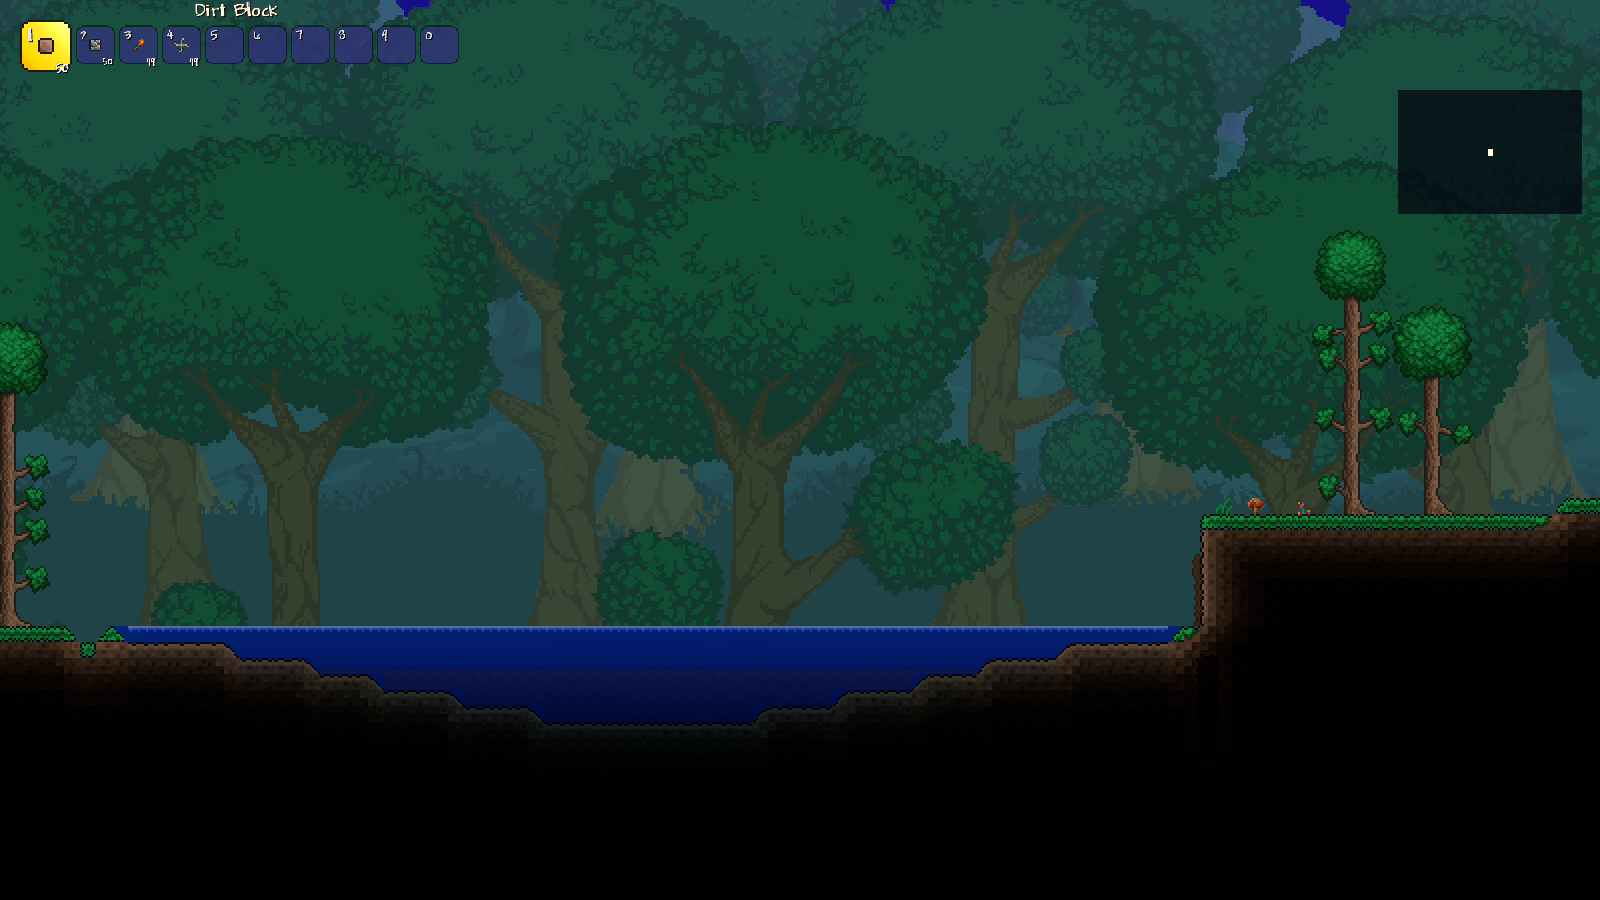
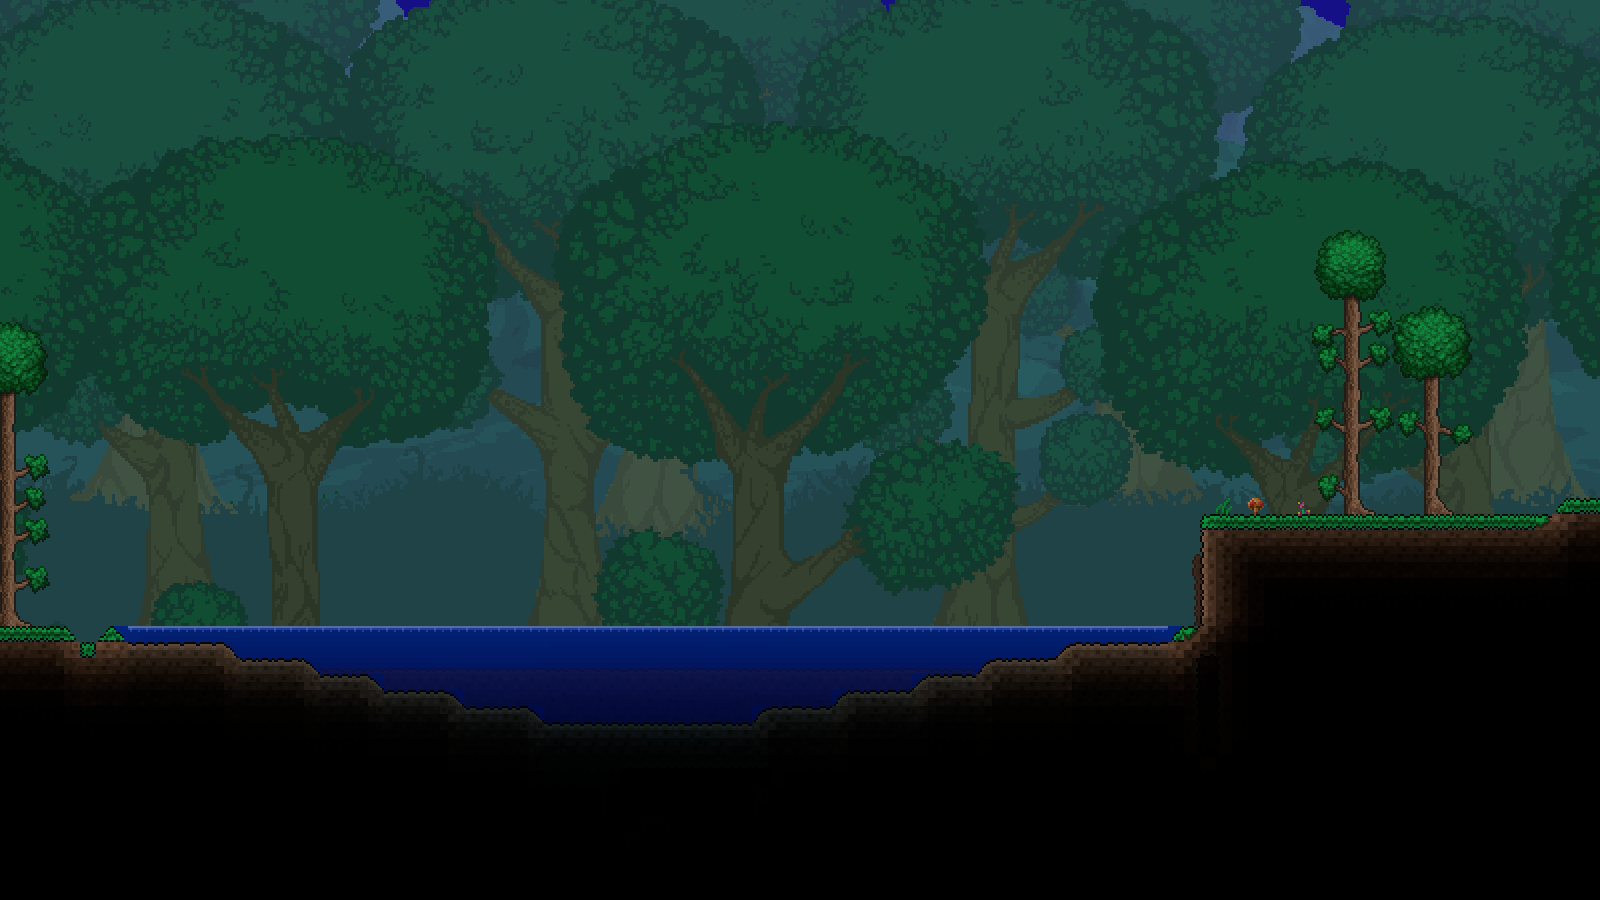
[DOC-README] Trim screenshots to eight world shots and refresh the README
Player-facing README: cut the image set to eight UI-free world shots (surface, player, lake, night, storm, underground, hell, king_slime); rewrite the Speed section as an early basic pass with more to come; expand the not-implemented list (particles, biome effects, potions, stats); state the assets/Content prerequisite without build steps. Adds TR_NOHUD=1 to hide the HUD, hotbar and minimap for world-only captures.

Changed region(s): [[0.0, 0.0, 0.3125, 0.0933], [0.875, 0.0933, 1.0, 0.2489]]

diff --git a/crates/tr-app/src/main.rs b/crates/tr-app/src/main.rs
@@ -1067,6 +1067,13 @@ fn no_cache() -> bool {
     *NO_CACHE.get_or_init(|| std::env::var_os("TR_NOCACHE").is_some())
 }
 
+/// `TR_NOHUD=1` hides the HUD, hotbar and minimap so screenshots show only the
+/// world. The debug overlay (`TR_DEBUG`) is independent and still drawn.
+fn no_hud() -> bool {
+    static NO_HUD: OnceLock<bool> = OnceLock::new();
+    *NO_HUD.get_or_init(|| std::env::var_os("TR_NOHUD").is_some())
+}
+
 /// `TR_PAN=<tiles/frame>` pans the camera deterministically. Benchmarks use it to
 /// measure the moving-camera path, where the static-scene caches (D2/G6) mostly miss.
 fn pan_step() -> Option<f32> {
@@ -2884,7 +2891,7 @@ impl App {
                     .iter()
                     .find(|n| n.kind == NpcKind::KingSlime && n.hp > 0)
                     .map(|n| (n.hp, n.max_hp));
-                if menu.is_none() {
+                if menu.is_none() && !no_hud() {
                     draw_hud(
                         renderer,
                         *camera,
@@ -2904,7 +2911,7 @@ impl App {
                     menu.draw(renderer, lookups, screen, dt);
                 }
                 if let Some(map) = map.as_ref() {
-                    if menu.is_none() && settings.map_enabled {
+                    if !no_hud() && menu.is_none() && settings.map_enabled {
                         map.draw_minimap(renderer, screen);
                         if map.open {
                             map.draw_full(renderer, world, screen);

diff --git a/README.md b/README.md
@@ -15,24 +15,18 @@ ship any of it.
 
 ![surface](docs/screenshots/surface.png)
 
+*A generated forest world — no player, no interface.*
+
 | | |
 | --- | --- |
-| ![generated](docs/screenshots/generated.png) | ![player](docs/screenshots/player.png) |
-| A world from our own generator (seed 1) | The player, walking on the generated surface |
-| ![editing](docs/screenshots/editing.png) | ![slimes](docs/screenshots/slimes.png) |
-| Mining/placing with the hotbar and local re-framing | First enemy pass: hopping slimes and the health bar |
-| ![lake](docs/screenshots/lake.png) | ![snow](docs/screenshots/snow.png) |
-| Generated forest lake: vanilla draw cache, two-pass water | Snow biome: snow tiles, winter trees, pine background |
-| ![ocean](docs/screenshots/ocean.png) | ![night](docs/screenshots/night.png) |
-| Ocean beach at the world edge | Night: moon, stars, parallax mountains |
-| ![light_color](docs/screenshots/light_color.png) | ![light_retro](docs/screenshots/light_retro.png) |
-| Color mode: 9-sliced block light, smooth edges | Retro mode: flat per-tile legacy lighting |
-| ![king_slime](docs/screenshots/king_slime.png) | ![breath](docs/screenshots/breath.png) |
-| King Slime boss: 2000 HP, teleport and slime minions | Player HUD: breath meter when underwater |
-| ![storm](docs/screenshots/storm.png) | ![hell](docs/screenshots/hell.png) |
-| Storm: cloudAlpha ramp, lightning flashes, storm clouds | Underground hell: ash blocks, lava puddles, emerald light |
-| ![underground](docs/screenshots/underground.png) | ![debug_overlay](docs/screenshots/debug_overlay.png) |
-| Underground cave systems with natural lighting | Debug overlay: FPS, instance counts, light metrics |
+| ![player](docs/screenshots/player.png) | ![lake](docs/screenshots/lake.png) |
+| The player, walking on the generated surface | A generated forest lake: vanilla draw cache, two-pass water |
+| ![night](docs/screenshots/night.png) | ![storm](docs/screenshots/storm.png) |
+| Night: moon, stars and parallax mountains, world only | Storm: driving rain, dark storm clouds and lightning flashes |
+| ![underground](docs/screenshots/underground.png) | ![hell](docs/screenshots/hell.png) |
+| Underground caves with natural Color-mode lighting | Underground hell: ash blocks, lava puddles, emerald light |
+| ![king_slime](docs/screenshots/king_slime.png) | |
+| King Slime boss: 2000 HP, teleport and slime minions | |
 
 ## What you can already do
 
@@ -60,8 +54,12 @@ ship any of it.
 
 ## Speed: how much faster it is now
 
-Terrustaria went through a dedicated performance pass ("Milestone 1.5"), and the difference is
-large. Every change was verified to produce the **exact same pixels** as before, so the game
+This is an early, basic optimisation pass — the first real one the project has had. It already
+makes a noticeable difference, but it is only a starting point. As the game edges closer to
+finished, larger parts of the code will be rewritten and the whole thing will speed up
+considerably, building much bigger performance gains on top of the finished mechanics.
+
+Every change so far was checked to produce the **exact same pixels** as before, so the game
 looks identical — it just does far less work.
 
 Measured on our test machine — an **RTX 4070 Laptop GPU with a Ryzen AI 9 365, at 1600×900** —
@@ -100,6 +98,7 @@ them. Set one before launching the program.
 | --- | --- |
 | `TR_BACKEND=dx12\|gl` | Use a different wgpu backend (default `vulkan`) |
 | `TR_DEBUG=0` | Hide the debug overlay |
+| `TR_NOHUD=1` | Hide the HUD, hotbar and minimap (world-only screenshots) |
 | `TR_CAM=x,y` | Start camera at tile coordinates |
 | `TR_ZOOM=1.5` | Initial zoom factor (gameplay range is 1.0–2.0) |
 | `TR_DAY=0.15` | Override the time of day (0 = midnight, 1 = noon) |
@@ -132,31 +131,46 @@ them. Set one before launching the program.
 | `TR_BREAK=x,y` | Headless test: break that tile on the first frame |
 | `TR_PLACE=x,y,kind` | Headless test: place `kind` at that tile on the first frame |
 
-## Building it yourself
+## What you need to run it
 
 Terrustaria ships **none** of Terraria's art, sound or data. To build and run it you must own
-Terraria.
-
-1. Create a folder called `assets` in the project root.
-2. Copy the game's `Content` folder into it, so the result is `assets\Content` (i.e.
-   `*\assets\Content`).
-3. With the Rust toolchain installed, build and start it:
-
-```powershell
-cargo run --release -p tr-app
-```
+Terraria and put the game's `Content` folder in an `assets` folder at the project root, so the
+result is `*\assets\Content`.
 
 Nothing inside `assets\Content` is ever committed or uploaded — the repository ignores it, and
 neither the decompiled code nor the extracted textures are part of this project.
 
 ## What is *not* implemented yet
 
-Terrustaria is an ongoing effort, not a finished game. Still to come: the full item list
-(tools, weapons, potions), the proper inventory/crafting/chest screens, the complete NPC and
-projectile rosters, most of the UI, and networking. Biomes beyond forest, snow and a small
-desert, world structures and dungeons, hardmode, and many background variants are still
-missing. The world generator is a faithful but compact model of the original's shapes, and
-several background/lighting details are approximations. See
+Terrustaria is an ongoing effort, not a finished game. Everything below is still to come.
+
+**Content and items**
+
+- The full item list — tools, weapons, armour, accessories and blocks well beyond today's set.
+- **Potions and buffs**, including their effects over time and the icons that show them.
+- The **stat and attribute system** (defence, damage types, criticals, movement and mining
+  bonuses) and all the numbers and tooltips that come with it.
+
+**World, effects and feel**
+
+- **Particles** — dust, sparks, splashes and blood, and the hundreds of small touches that make
+  mining, hits and footsteps feel alive.
+- **Biome effects** — the ambient weather, colour and status effects each biome applies to the
+  player and the screen (water candles, weather-specific lighting, and much more).
+- Biomes beyond forest, snow and the small desert; world structures, dungeons and the world
+  evils in full; hardmode; and the many background, tree and critter variants.
+- Many of the smaller physics details — liquids that carry items, slope and rail behaviour,
+  ropes, and the rest of the movement rules.
+
+**Systems and interface**
+
+- The proper inventory, crafting, chest, NPC-shop and settings screens — most of the UI.
+- The complete NPC and projectile rosters and their AI.
+- Wiring and mechanisms, signs, and the advanced world-editing tools.
+- **Networking** (multiplayer), plus reading and writing the original Terraria world format.
+
+The world generator is a faithful but compact model of the original's shapes, and several
+background and lighting details are approximations. See
 [`docs/ROADMAP.md`](docs/ROADMAP.md) for the honest, detailed plan.
 
 ## Project layout
